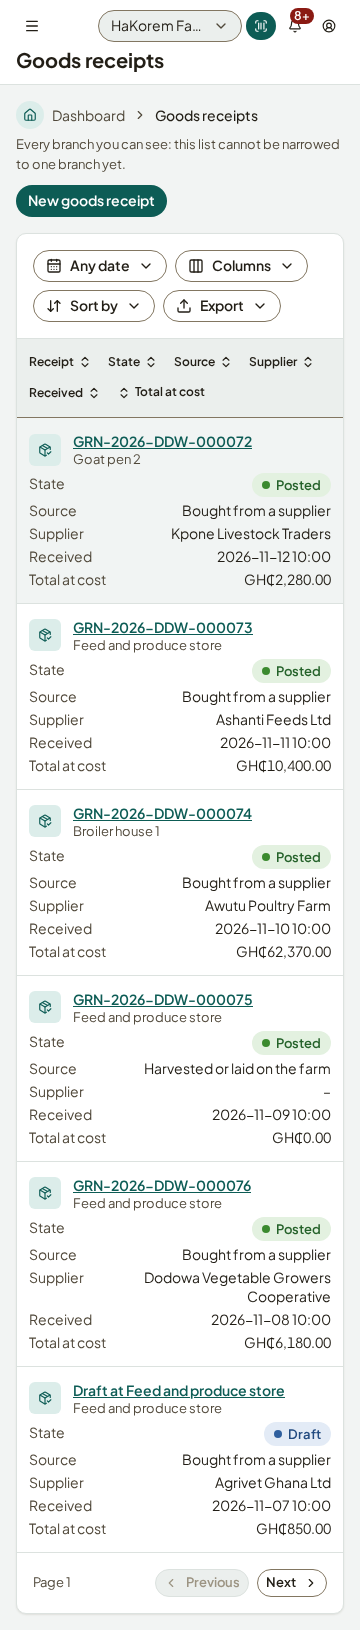
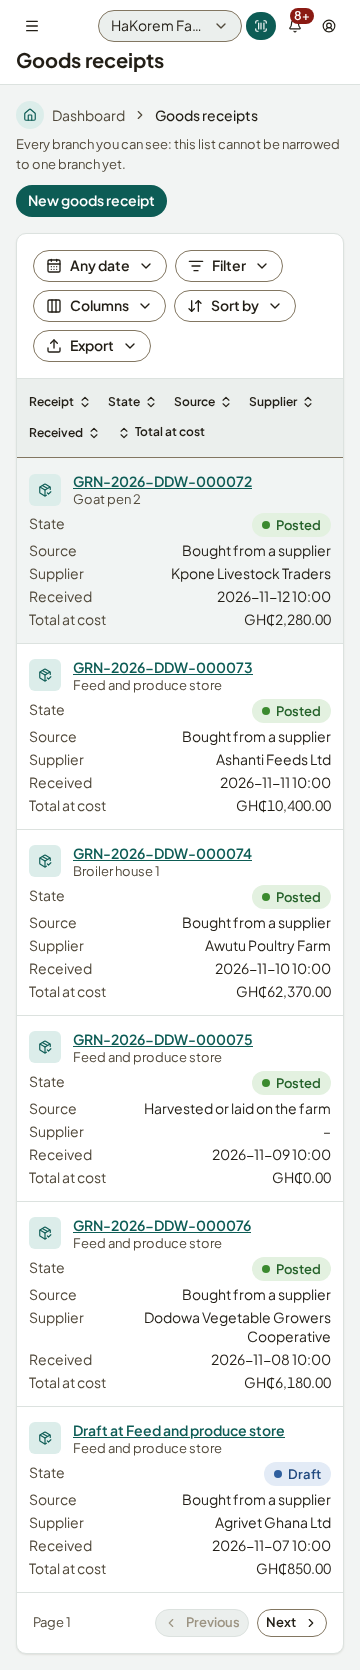
docs: F5c report: the owner's decisions and what each changed; stock lists re-shot with their filters
Claude-Session: https://claude.ai/code/session_018QxPTsAPsqZfCjJsvvdo7C

diff --git a/docs/sessions/F05c-closer-pass.md b/docs/sessions/F05c-closer-pass.md
@@ -350,14 +350,43 @@ A-F5c-01 to 07 in `docs/ASSUMPTIONS.md`:
 - **The font on a real 3G phone.** It is swap over the system stack, measured at 17.9 KB, but not timed on a device.
 - **CI on this branch.** It has not run; no pull request was asked for.
 
+## The owner's decisions on F5c, and what each changed
+
+1. **Merge rule.** The branch goes to `main` through its PR once CI is green. A red run is fixed at its cause, never re-run blind. `CLAUDE.md` now says: a red CI run is re-run only after its cause is named in the PR.
+2. **PR #8 closed.**
+   - Its only change, `docs/CONTRACT_REQUESTS.md`, is on `main` word for word: the diff between the two is empty.
+   - Closed with a comment saying so ([officialjwise/hakorem_farms_frontend#8](https://github.com/officialjwise/hakorem_farms_frontend/pull/8)).
+   - Nothing was left to move.
+3. **Public pages keep the system font** (A-F5c-01 resolved).
+4. **The grey storefront page is accepted for now** (A-F5c-02 resolved).
+5. **ADR 0036 accepted.**
+6. **Stock list filters added**, and A-F5c-04 to 06 resolved on the recommended options. The filters:
+   - stock takes: status and location;
+   - adjustments: status, location and reason;
+   - transfers: status, from and to;
+   - goods receipts: status and supplier, beside the date range.
+
+   Each sits in the Filter pill and is sent as the API's own parameter, with an integration test for one. The four lists were re-shot.
+
+7. **Server-side sort requested.** CR-019 asks for it on products, stock on hand, lots and movements, on `main` through its own PR ([officialjwise/hakorem_farms_frontend#10](https://github.com/officialjwise/hakorem_farms_frontend/pull/10)). The "Sorts the rows on this page" label stays until it lands.
+8. **Contract sync.** The next session tries to attach the backend first, and reports the exact error words if it is refused.
+
+**Gates re-run after these changes,** each on its own:
+
+- clean: `format:check`, `lint`, `typecheck`, `test:unit`, and the four freshness checks;
+- `test:integration`: 187;
+- `test:e2e`: 201;
+- `budget:console`: back office 268.9 of 300 kB, till 202.4 of 250 kB.
+
 ## Opening message for the next session
 
 ```text
 Read CLAUDE.md, docs/SHARED_BRIEF.md and docs/sessions/F05c-closer-pass.md. ADR 0036 is proposed and
 stands until the owner answers.
 
-Attach officialjwise/hakorem_farms_backend as ../backend, run pnpm sync-contract and read the changelog
-after 1.17.0. Wire the new getOwnerDashboard fields in apps/console/src/dashboard/figures.ts (each leaves
+First, before anything else: attach officialjwise/hakorem_farms_backend as ../backend. If it is refused,
+report the exact error words, not just "refused". Then run pnpm sync-contract and read the changelog after
+1.17.0. Wire the new getOwnerDashboard fields in apps/console/src/dashboard/figures.ts (each leaves
 the "still to come" strip), pass any series to StatTile's `series`, and re-shoot the dashboard. Then F6 as
 BUILD_PROMPT describes.
 ```
